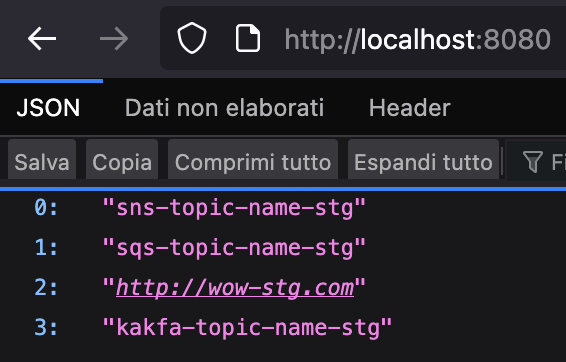
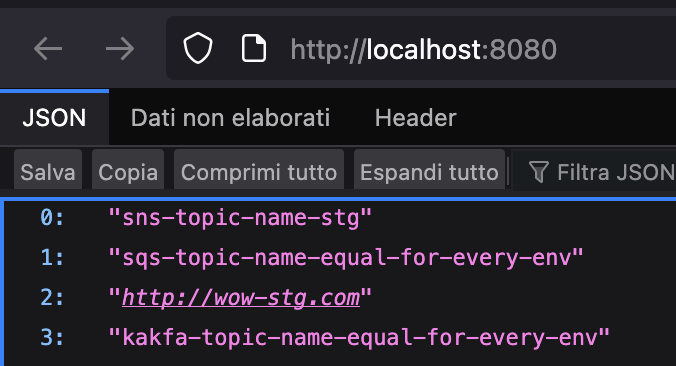
managing environment in spring

diff --git a/content/posts/managing-environment-spring/index.md b/content/posts/managing-environment-spring/index.md
@@ -1,4 +1,4 @@
-<!-- ---
+---
   author: Marco Pegoraro
   title: Don't use the "application.properties" to manage environment variables in Spring, use this instead
   date: 2025-04-22 22:00:00
@@ -45,10 +45,11 @@ public record GetEnvVariablesController(
 And then I created three files called application.properties, application-stg.properties and application-prod.properties. Each one of then have the same four variables, the only difference is the suffix in the end of the values, containing the corresponding environment:
 
 ```
-sns.topic.name=sns-topic-name-local
-sqs.queue.name=sqs-topic-name-local
-api.url=http://wow-local.com
-kafka.topic.name=kakfa-topic-name-local
+sns.topic.name=sns-topic-name-stg
+api.url=http://wow-stg.com
+
+sqs.queue.name=sqs-topic-name-equal-for-every-env
+kafka.topic.name=kakfa-topic-name-equal-for-every-env
 ```
 
 Now, if we run the application passing the desired environment, it will run without any problem:
@@ -57,6 +58,79 @@ Now, if we run the application passing the desired environment, it will run with
 ![Json response](./response.png)
 </center>
 
+And then, in your Dockerfile, the only thing that you need to do is pass the environment in the container 
+
 # How can we make it better?
 
-W -->
+This approach looks great when you are running the application locally or even running inside a container in a VPS, but lets suppose you have some sort of secret that the application needs to know to connect to an API or database, now you can't put these variables into the properties files.
+
+The best way to make the application read these variables is to use container environment variables. In other programming languages, you usually have a .env file that the application automatically reads to know the secret variables, but in spring we can do something witch I believe is one of the best aproches to the problem.
+
+We are going to delete all the specific application properties files, leaving only the default "application.properties", and then inside of it, you are going to note every variable that changes from environment to environment, for example, URLs, topic names, etc.
+
+In our example above, only the SNS and the URL are variables that changes from file to file, so we are gonna create container specific variables for then.
+
+```
+sns.topic.name=${SNS_TOPIC_NAME:sns-topic-name-local}
+api.url=${API_URL:http://wow-local.com}
+
+sqs.queue.name=sqs-topic-name-equal-for-every-env
+kafka.topic.name=kakfa-topic-name-equal-for-every-env
+```
+
+Look what's happening now, I'm passing to the "sns.topic.name" the value of the container variable "SNS_TOPIC_NAME", but if it doesn't exists, the default is set automatically to "sns-topic-name-local".
+
+This is why I believe spring has the best approach for this problem, you don't need an ``.env.example`` file to copy to an ``.env`` file every time that you clone the repository, you can just clone the repository and run the project, if the variables are not set, it automatically will set the variables pointing to an specifically environment, in this case, the local environment.
+
+And not only that, you don't need to change every ``app.properties`` file if a environment variable changes, you just need to update it in one file, and it will work.
+
+# Infra as Code (IaC)
+
+But the best argument to use environment variables is when you are using a infra as code tool, like <a href="https://developer.hashicorp.com/terraform" target="_blank">Terraform</a>. 
+
+Look at the example bellow, now we have a terraform folder structure, and inside of it, two files for each environment containing the instance type.
+
+![Project folder structure with terraform](./terraform-files.png)
+
+Now, the only thing that we have to do is put the variable values inside of the terraform environment files, way easier than using the spring application files for each environment.
+
+```terraform
+//Other variables
+
+sns_topic_name = "sns-topic-name-prod"
+api_url = "http://prod-local.com"
+```
+
+And last but not least, reference the variables in the ``container_definition``: 
+
+```terraform
+  container_definitions = jsonencode([
+    {
+      name  = "${var.environment}-app"
+      image = "${var.app_name}:latest"
+      environment = [
+        {
+          name  = "SNS_TOPIC_NAME"
+          value = var.sns_topic_name
+        },
+        {
+          name  = "API_URL"
+          value = var.api_url
+        }
+      ]
+      portMappings = [
+        {
+          containerPort = 8080
+          hostPort      = 8080
+          protocol      = "tcp"
+        }
+      ]
+    }
+  ])
+```
+
+And by doing that, we can now have just one place to put the environment specific variables, way easier and less prone to erros than having two places.
+
+And if you need to load a secret, like a database password or api key, just create a secret in the <a href="https://aws.amazon.com/pt/secrets-manager" target="_blank">AWS Secrets Manager</a> and use Terraform to load it inside a environment variable.
+
+And that's why this is my favorite way to deal with environment variables in spring! Thank you so much for reading until here, this article is not supposed to be an tutorial, just a proof of concept, in the future, I want to write an article about infra as code, until then, see ya!
